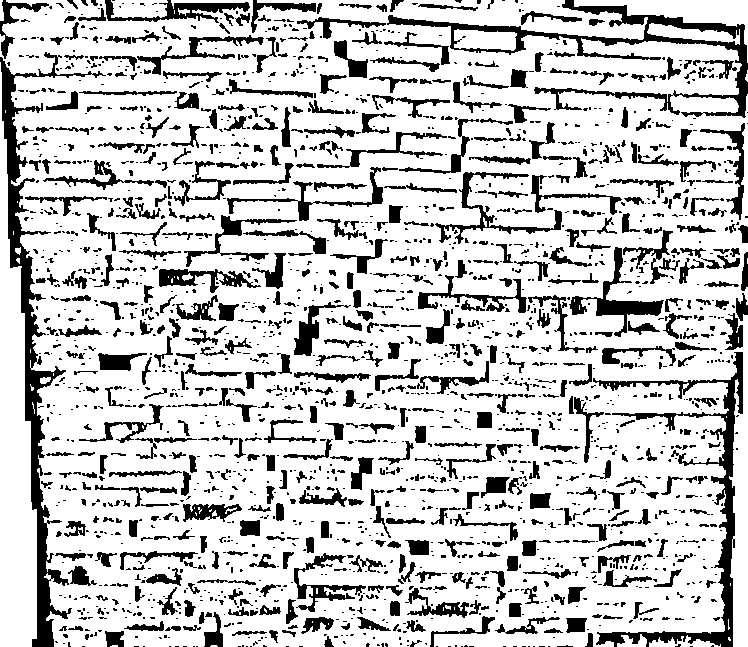
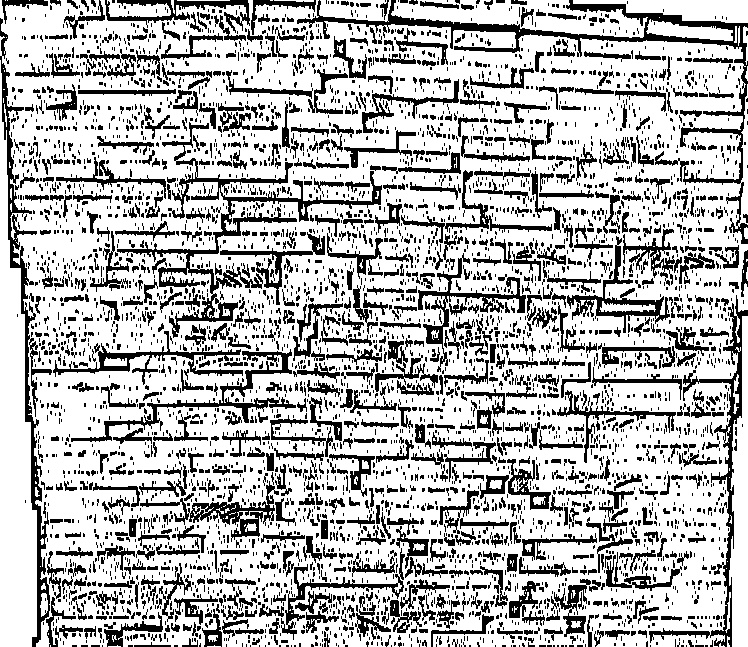
Probando opencv

Changed region(s): [[0.0, 0.0, 1.0, 1.0]]

diff --git a/scripts/medidorPaquetes.py b/scripts/medidorPaquetes.py
@@ -1,92 +1,40 @@
-import json
-import base64
 import cv2 as cv
 import numpy as np
-import sys
 
-from matplotlib import pyplot as plt
-import pylab # this allows you to control figure size 
-# pylab.rcParams['figure.figsize'] = (10.0, 8.0) # this controls figure size in the notebook
-# imagen original
-img1 = cv.imread("tablas.jpg")
+# Lee la imagen de entrada
+img = cv.imread('imagen.jpg', cv.IMREAD_GRAYSCALE)
 
-morfo = cv.cvtColor(img1, cv.COLOR_BGR2GRAY)
+# Aplica la binarización gaussiana
+img_gaussian = cv.adaptiveThreshold(img, 255, cv.ADAPTIVE_THRESH_GAUSSIAN_C, cv.THRESH_BINARY, 11, 2)
 
-# imagen gris
-plt.imshow(morfo, cmap="gray")
-	
-# cv.imwrite('Test_gray.jpg', img2) 
-# descomposicion en canales hsv
-img3 = cv.cvtColor(img1, cv.COLOR_BGR2HSV)
-v = img1[:,:,2]
-s = img1[:,:,1]
-h = img1[:,:,0]
+# Aplica el filtro Sobel para resaltar los bordes
+img_sobel = cv.Sobel(img_gaussian, cv.CV_8U, 1, 0)
 
-fig, (ax1, ax2, ax3) = plt.subplots(1, 3)
-fig.suptitle("Canales HSV")
-ax1.imshow(h, cmap="gray", vmin=0, vmax=255)
-ax2.imshow(s, cmap="gray", vmin=0, vmax=255)
-ax3.imshow(v, cmap="gray", vmin=0, vmax=255)
-# plt.show()
+# Detecta las líneas en la imagen
+lines = cv.HoughLinesP(img_sobel, rho=1, theta=np.pi/180, threshold=100, minLineLength=100, maxLineGap=10)
 
-cv.imwrite('canalH.jpg', h)
+# Itera sobre las líneas detectadas
+for line in lines:
+    x1, y1, x2, y2 = line[0]
 
-# def procesar_imagen(imagen_path):
-#     imagen = cv2.imread(imagen_path)
-#     # Realiza aquí tus operaciones de procesamiento de imágenes
-#     resultados = {"datos": "Algunos datos"}
-    
-#     # Codifica la imagen como una cadena base64
-#     imagen_codificada = cv2.imencode('.jpg', imagen)[1].tobytes()
-#     imagen_codificada = base64.b64encode(imagen_codificada).decode('utf-8')
-#     resultados["imagen_resultante"] = imagen_codificada
-    
-#     return resultados
+    # Descarta líneas no horizontales ni verticales
+    if abs(x2 - x1) > abs(y2 - y1):
+        # Línea vertical
+        cv.line(img, (x1, y1), (x2, y2), (0, 255, 0), 2)
+    else:
+        # Línea horizontal
+        cv.line(img, (x1, y1), (x2, y2), (0, 0, 255), 2)
 
-# Recibe la imagen y la procesa
-# imagen_path = sys.argv[1]
-# resultados = procesar_imagen(imagen_path)
+        # Si la línea no es recta, hazla crecer
+        if abs(x2 - x1) < 0.9 * abs(y2 - y1):
+            if x1 < x2:
+                new_x1 = x1 - 10
+                new_x2 = x2 + 10
+            else:
+                new_x1 = x1 + 10
+                new_x2 = x2 - 10
 
-# Devuelve los resultados en formato JSON
-# print(json.dumps(resultados))
+            cv.line(img, (new_x1, y1), (new_x2, y2), (0, 0, 255), 2)
 
-
-# blur gaussiano
-gris = cv.GaussianBlur(v, (1,3), 5)
-# binarizacion
-# sobelx = cv.Sobel(gris, cv.CV_64F, 1, 0, ksize=5)
-th3 = cv.adaptiveThreshold(gris,255,cv.ADAPTIVE_THRESH_GAUSSIAN_C, cv.THRESH_BINARY,33,5)
-
-plt.imshow(th3)
-cv.imwrite('bluryBin.jpg', th3)
-
-
-kernel = np.ones((1,2), np.uint8)
-
-erode = cv.erode(th3, kernel, iterations=1)
-
-kernel = np.ones((2,1), np.uint8)
-erode = cv.dilate(erode, kernel, iterations=1)
-cv.imwrite('erode.jpg', erode)
-kernel = np.ones((1,2), np.uint8)
-
-morfo = cv.morphologyEx(erode, cv.MORPH_OPEN, kernel, iterations=5)
-
-kernel = np.ones((3,1), np.uint8)
-
-erode = cv.erode(morfo, kernel, iterations=2)
-
-kernel = np.ones((1,3), np.uint8)
-
-morfo = cv.morphologyEx(erode, cv.MORPH_OPEN, kernel, iterations=2)
-
-
-kernel = np.ones((5,1), np.uint8)
-
-erode = cv.dilate(morfo, kernel, iterations=1)
-cv.imwrite('open33.jpg', erode)
-
-
-
-
-print("Hola mundo")
+# Guarda la imagen con los rectángulos dibujados
+cv.imwrite('tabla_detectada.jpg', img)

diff --git a/scripts/midePaquete.py b/scripts/midePaquete.py
@@ -1,0 +1,62 @@
+import cv2 as cv
+import numpy as np
+
+# Lee la imagen de entrada
+img = cv.imread('tablas.jpg', cv.IMREAD_GRAYSCALE)
+
+
+# Definir las coordenadas de los cuatro puntos de la región de interés (ROI)
+puntos_entrada = np.float32([[50,50], [150,50], [150,150], [50,150]])
+
+# Definir las coordenadas de los cuatro puntos en los que se transformará la ROI
+puntos_salida = np.float32([[0,0], [200,0], [200,200], [0,200]])
+
+# Calcular la matriz de transformación de perspectiva
+M = cv.getPerspectiveTransform(puntos_entrada, puntos_salida)
+
+# Aplicar la transformación de perspectiva a la imagen
+img_transformada = cv.warpPerspective(img, M, (200, 200))
+
+
+cv.imwrite('imagentransformada.jpg', img_transformada)
+
+
+
+
+img = cv.GaussianBlur(img, (3,3), 0)
+
+
+# Aplica la binarización gaussiana
+img_gaussian = cv.adaptiveThreshold(img, 255, cv.ADAPTIVE_THRESH_GAUSSIAN_C, cv.THRESH_BINARY, 11, 5)
+
+cv.imwrite('binarizacionGaussiana.jpg', img_gaussian)
+
+
+kernel = np.ones((1,10), np.uint8)
+
+morfo = cv.morphologyEx(img_gaussian, cv.MORPH_OPEN, kernel, iterations=3)
+cv.imwrite('open.jpg', morfo)
+
+kernel = np.ones((1,9), np.uint8)
+
+morfo = cv.morphologyEx(img_gaussian, cv.MORPH_CLOSE, kernel, iterations=15)
+
+
+cv.imwrite('close.jpg', morfo)
+
+img_invertida = cv.bitwise_not(morfo)
+
+
+# Definir el kernel estructurante para dilatación horizontal
+kernel = np.ones((1, 4), np.uint8)
+
+# Aplicar la operación de dilatación horizontal
+img_dilated = cv.morphologyEx(img_invertida, cv.MORPH_DILATE, kernel,  iterations=1)
+cv.imwrite('dilatacionhorizontal.jpg', img_dilated)
+
+
+
+
+
+# Guarda la imagen con los rectángulos dibujados
+cv.imwrite('tabla_detectada.jpg', img)

diff --git a/scripts/medidaPaquete2.py b/scripts/medidaPaquete2.py
@@ -1,0 +1,9 @@
+import numpy as np
+import cv2 as cv
+from matplotlib import pyplot as plt
+img = cv.imread('tablas.jpg',0)
+edges = cv.Canny(img,100,200)
+plt.subplot(121),plt.imshow(img,cmap = 'gray')
+plt.title('Original Image'), plt.xticks([]), plt.yticks([])
+plt.subplot(122),plt.imshow(edges,cmap = 'gray')
+plt.title('Edge Image'), plt.xticks([]), plt.yticks([])
